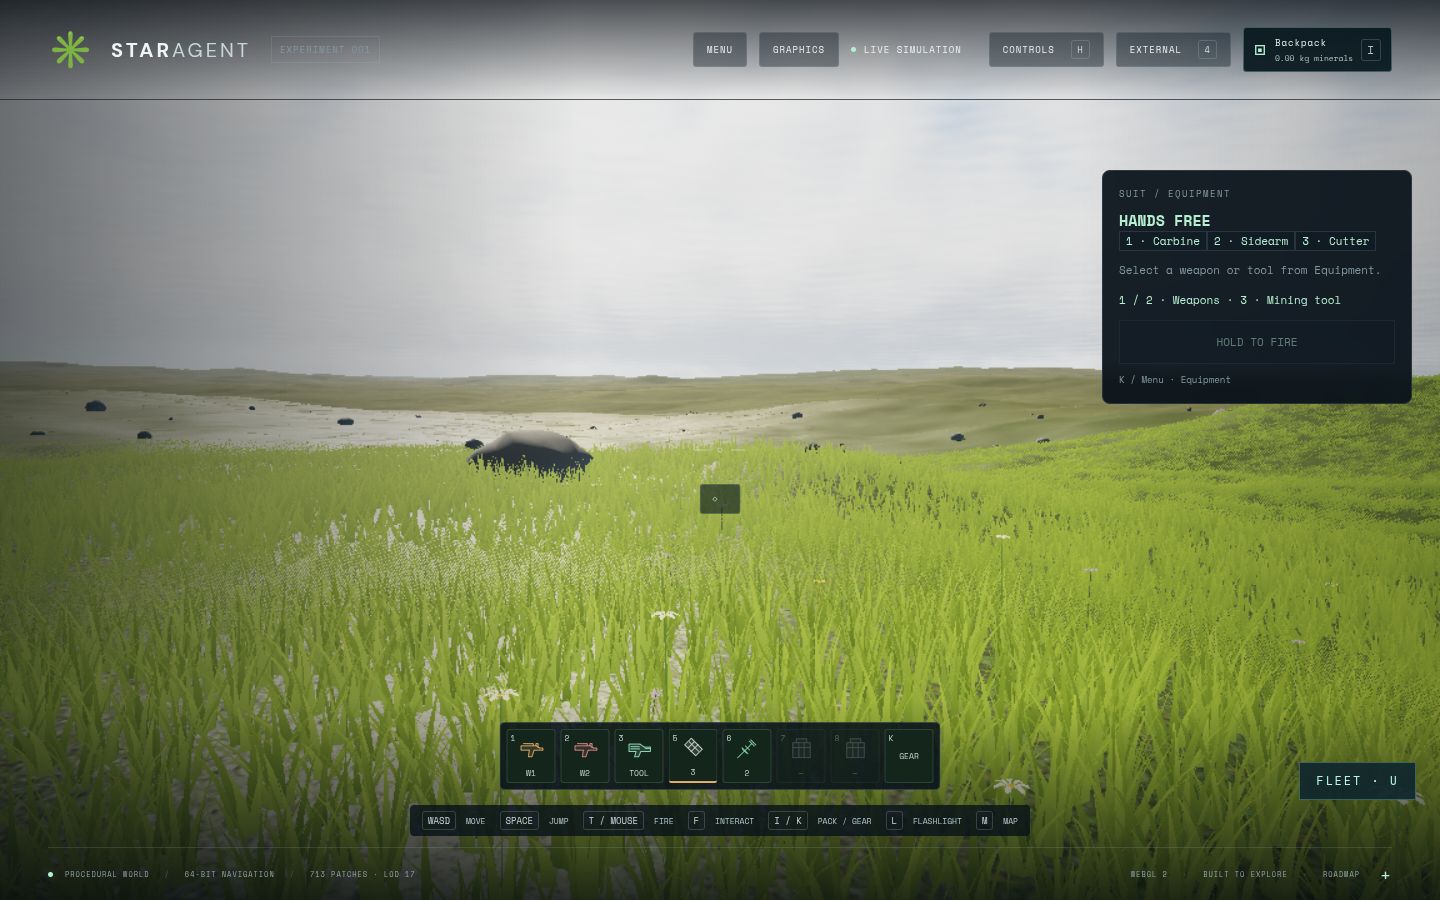
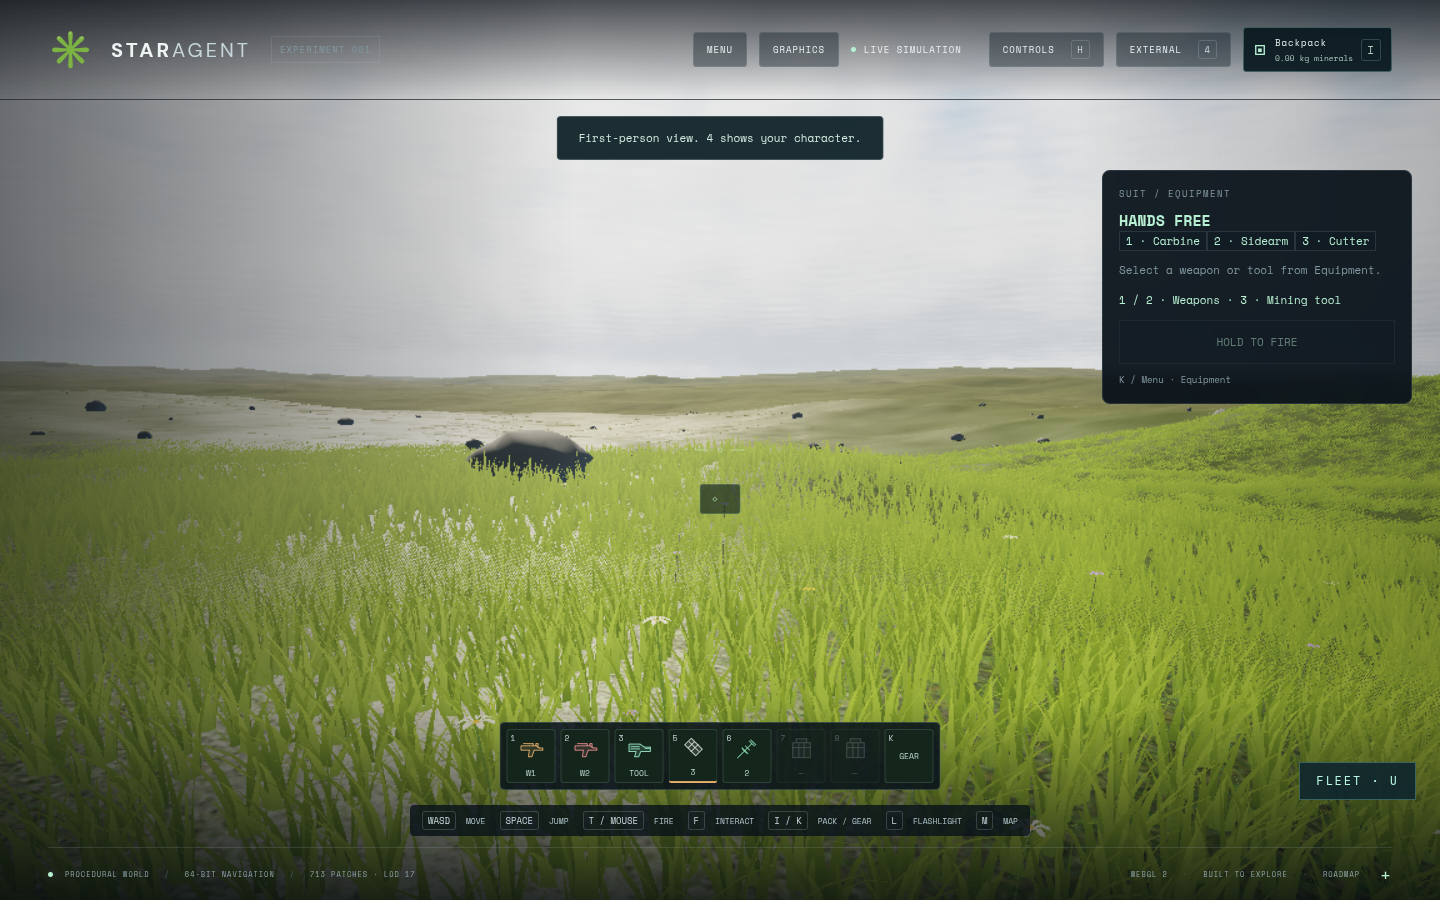
Retain coarse grass until intermediate blades finish streaming

diff --git a/src/distant-meadow.js b/src/distant-meadow.js
@@ -48,21 +48,31 @@ function mediumGeometry(){
 export class DistantMeadow {
   constructor(scene,vegetation,{medium=false}={}){
     this.medium=medium;this.spacing=medium?.28:SPACING;this.margin=medium?10:MARGIN;this.capacity=medium?65000:CAPACITY;
-    this.vegetation=vegetation;this.origin=new THREE.Vector3();this.last=new THREE.Vector3(Infinity,Infinity,Infinity);
+    this.vegetation=vegetation;this.origin=new THREE.Vector3();this.previousOrigin=new THREE.Vector3();this.hadPopulation=false;this.blendStart=-1;this.last=new THREE.Vector3(Infinity,Infinity,Infinity);
     this.distance=medium?28:80;this.density=.75;this.cache=new Map();this.pending=null;this.clearing=null;
-    this.uniforms={fieldEye:{value:new THREE.Vector3()},fieldTime:{value:0},fieldRange:{value:this.distance}};
+    this.uniforms={fieldEye:{value:new THREE.Vector3()},fieldTime:{value:0},fieldRange:{value:this.distance},fieldUp:{value:new THREE.Vector3()},fieldResidentCenter:{value:new THREE.Vector3()},fieldResidentRadius:{value:medium?38:0},fieldPreviousCenter:{value:new THREE.Vector3()},fieldPreviousRadius:{value:0},fieldResidentBlend:{value:1}};
     this.texture=medium?null:grassTexture();this.geometry=medium?mediumGeometry():clusterGeometry();
     this.geometry.setAttribute('fieldPhase',new THREE.InstancedBufferAttribute(new Float32Array(this.capacity),1));
     this.material=new THREE.MeshStandardMaterial({map:this.texture,alphaTest:0,side:THREE.DoubleSide,roughness:1});
     this.material.onBeforeCompile=shader=>{
       Object.assign(shader.uniforms,this.uniforms);
-      shader.vertexShader=shader.vertexShader.replace('#include <common>','#include <common>\nuniform vec3 fieldEye; uniform float fieldTime; attribute float fieldPhase; varying float fieldDistance; varying float fieldHeight; varying float fieldSeed;')
+      shader.vertexShader=shader.vertexShader.replace('#include <common>','#include <common>\nuniform vec3 fieldEye; uniform float fieldTime; uniform vec3 fieldUp,fieldResidentCenter,fieldPreviousCenter; attribute float fieldPhase; varying float fieldDistance; varying float fieldHeight; varying float fieldSeed; varying float fieldResidentDistance; varying float fieldOwnDistance; varying float fieldPreviousDistance;')
         .replace('#include <begin_vertex>',`#include <begin_vertex>
           vec3 root=instanceMatrix[3].xyz; fieldDistance=length(root-fieldEye); fieldHeight=uv.y; fieldSeed=fieldPhase;
+          vec3 residentDelta=root-fieldResidentCenter;
+          fieldResidentDistance=length(residentDelta-fieldUp*dot(residentDelta,fieldUp));
+          fieldOwnDistance=length(root-fieldUp*dot(root,fieldUp));
+          vec3 previousDelta=root-fieldPreviousCenter;fieldPreviousDistance=length(previousDelta-fieldUp*dot(previousDelta,fieldUp));
           transformed.x+=sin(fieldTime*1.8+fieldPhase)*.09*position.y*position.y;`);
-      shader.fragmentShader=shader.fragmentShader.replace('#include <common>','#include <common>\nuniform float fieldRange; varying float fieldDistance; varying float fieldHeight; varying float fieldSeed;')
+      shader.fragmentShader=shader.fragmentShader.replace('#include <common>','#include <common>\nuniform float fieldRange,fieldResidentRadius,fieldPreviousRadius,fieldResidentBlend; varying float fieldDistance; varying float fieldHeight; varying float fieldSeed; varying float fieldResidentDistance; varying float fieldOwnDistance; varying float fieldPreviousDistance;')
         .replace('#include <alphatest_fragment>',`#include <alphatest_fragment>
-          float cover=smoothstep(${medium?'6.0,10.0':'20.0,28.0'},fieldDistance)*(1.0-smoothstep(${medium?'20.0':'fieldRange*.78'},fieldRange,fieldDistance));
+          float resident=fieldResidentRadius>0.0?1.0-smoothstep(fieldResidentRadius-8.0,fieldResidentRadius,fieldResidentDistance):0.0;
+          float previousResident=fieldPreviousRadius>0.0?1.0-smoothstep(fieldPreviousRadius-8.0,fieldPreviousRadius,fieldPreviousDistance):0.0;
+          resident*=mix(previousResident,1.0,fieldResidentBlend);
+          float outer=smoothstep(20.0,28.0,fieldDistance);
+          // The coarse parent fills unresident parts of the middle layer. Blend
+          // across the retained field edge before new blades finish streaming.
+          float cover=${medium?'smoothstep(6.0,10.0,fieldDistance)*(1.0-outer)*resident':'smoothstep(6.0,10.0,fieldDistance)*(1.0-(1.0-outer)*resident)*(1.0-smoothstep(fieldRange*.78,fieldRange,fieldDistance))*(1.0-smoothstep(fieldRange,fieldRange+20.0,fieldOwnDistance))'};
           float noise=fract(52.9829189*fract(dot(gl_FragCoord.xy,vec2(.06711056,.00583715))${medium?'':'+fieldSeed*.137'}));
           // Preserve the filtered mask's average coverage when blades become
           // subpixel. A hard alpha cutoff erased the sward in distant mipmaps.
@@ -70,7 +80,7 @@ export class DistantMeadow {
         .replace('#include <normal_fragment_begin>','#include <normal_fragment_begin>\nnormal*=faceDirection;')
         .replace('#include <color_fragment>',medium?'#include <color_fragment>\ndiffuseColor.rgb*=mix(vec3(.42,.52,.27),vec3(.80,.88,.45),fieldHeight);':'#include <color_fragment>');
     };
-    this.material.customProgramCacheKey=()=> medium?'medium-meadow-v1':'distant-meadow-v3';
+    this.material.customProgramCacheKey=()=> medium?'medium-meadow-v2':'distant-meadow-v4';
     this.mesh=new THREE.InstancedMesh(this.geometry,this.material,this.capacity);this.mesh.count=0;this.mesh.frustumCulled=false;this.mesh.receiveShadow=true;this.mesh.castShadow=false;this.mesh.name=medium?'Intermediate grass blades':'Distant instanced meadow';scene.add(this.mesh);
     this.stats={range:this.distance,density:.75,clusters:0,pending:0,rebuilds:0,visible:false};
     if(!medium)this.middle=new DistantMeadow(scene,vegetation,{medium:true});
@@ -117,9 +127,19 @@ export class DistantMeadow {
       if(done){this.publish(job);this.pending=null;}
     }
     this.uniforms.fieldEye.value.copy(position).sub(this.origin);this.uniforms.fieldTime.value=time;
+    this.uniforms.fieldUp.value.copy(this.origin).normalize();
+    const residentLayer=this.middle??this;
+    this.uniforms.fieldPreviousCenter.value.copy(residentLayer.previousOrigin).sub(this.origin);
+    this.uniforms.fieldPreviousRadius.value=residentLayer.hadPopulation?residentLayer.distance+residentLayer.margin:0;
+    this.uniforms.fieldResidentBlend.value=THREE.MathUtils.smoothstep(time-residentLayer.blendStart,0,.6);
+    if(this.middle){
+      this.uniforms.fieldResidentCenter.value.copy(this.middle.origin).sub(this.origin);
+      this.uniforms.fieldResidentRadius.value=this.middle.mesh.visible&&this.middle.mesh.count>0?this.middle.distance+this.middle.margin:0;
+    }
     this.mesh.position.copy(this.origin).sub(origin);this.stats.pending=Number(Boolean(this.pending)||Boolean(this.middle?.pending));
   }
   publish(job){
+    this.previousOrigin.copy(this.origin);this.hadPopulation=this.mesh.count>0;this.blendStart=this.uniforms.fieldTime.value;
     this.origin.copy(job.origin);this.cache=job.cache;
     const count=job.count;
     this.mesh.instanceMatrix.array=job.matrices;this.mesh.instanceMatrix.clearUpdateRanges();this.mesh.instanceMatrix.addUpdateRange(0,count*16);this.mesh.instanceMatrix.needsUpdate=true;

diff --git a/docs/qa/flight-options/fourth-review.md b/docs/qa/flight-options/fourth-review.md
@@ -1,0 +1,47 @@
+# Independent flight-options review — fourth visual pass
+
+**Decision: CHANGES REQUIRED. Scoped score: 3.83 / 5.00.** The earlier grass material/coverage finding is resolved in this candidate. A reproducible middle-field streaming gap remains during forward walking.
+
+Candidate **2da9636**, `feat/flight-options`, production preview 5290. Separate Codex reviewer under HANDOFF TOKEN POLICY v2; read-only source review and independent browser captures. Previous three reports remain preserved.
+
+## Required correction
+
+**P2 — walking can outrun the retained middle grass before replacement publication, exposing a bare band.** `src/distant-meadow.js:50` defines only 10 m extra generation margin for the middle field; `update` triggers a replacement after 8 m displacement, generates the whole field within its 0.8 ms budget, and retains the old mesh until completion. The combined trigger distance and publication latency exceed that margin in the actual full-resolution walk.
+
+At the start of the 160 m sequence, both jobs and terrain are settled. In `meadow-160-walking-3.png`, the player has moved **19.88 m** from that position while middle rebuild count remains **3**, unchanged from the start. A clear bare transverse strip separates foreground/middle blades from the far field. It remains conspicuous in `meadow-160-walking-4.png`; the first replacement has then published, but is already behind the moving player. By `meadow-160-stopped.png`, middle rebuild count is 6, pending is 0, terrain is settled, and the strip is filled.
+
+This is a field publication problem rather than the previous olive-card material mismatch. Source and telemetry support the cause: the original generated middle radius is 28+10 m, the visible radius is 28 m, and the player moves farther than the spare margin before the complete replacement arrives. The far field begins fading in at 20 m, so missing middle coverage becomes visible ahead of the player.
+
+Required behavior: retain complete middle coverage throughout ordinary forward walking while preserving the bounded CPU generation work. Account for trigger distance plus worst observed publication delay when sizing or scheduling the retained coverage; consider incremental spatial publication or earlier/predictive preparation. Verify a continuous full-resolution walk long enough to cross multiple middle publications, with no exposed band or later fill-in. Simply enlarging the generated region may also enlarge publication latency, so validate the resulting behavior.
+
+## Resolved findings and rubric
+
+The filtered-alpha treatment, RGB padding, individual blade gradients and independently seeded cluster coverage now produce continuous apparent grass color and useful far coverage at 80 m and 160 m. The former broad sparse olive outer field no longer dominates the transition. Fine screen-door grain remains visible; it is a bounded quality limitation, not a second material blocker in this pass.
+
+| QUALITY criterion | Score | Assessment |
+|---|---:|---|
+| Silhouette and scale | 4 | Previously reviewed gear/tool/UI observations remain accepted; layered grass silhouettes now transition acceptably. |
+| Materials and detail | 4 | Previous near/far color and sparse-card discrepancy is resolved in the new full-resolution captures. |
+| Lighting and integration | 4 | Continuous grass color response; prior bounded lamp observations remain accepted. |
+| Cohesion | 4 | Existing UI, MFD and equipment visual language remains consistent. |
+| Information design / function | 4 | Previously corrected B/Y hints and graphics controls remain accepted. |
+| Motion | 3 | Middle-field publication falls behind ordinary walking and exposes a temporary bare strip. |
+
+Average **23/6 = 3.83**. No criterion below 3; average remains below 4.0. This is not whole-PR34 approval, a waiver of inherited scene budgets, or permission to merge/deploy.
+
+## Evidence and validation
+
+Directory: `/tmp/star-agent-flight-options-fourth-independent/`.
+
+- For each 80 m and 160 m range: `meadow-RANGE-stationary.png`, five `meadow-RANGE-walking-N.png` frames, and `meadow-RANGE-stopped.png`.
+- `metadata.json` records renderer, browser, actual position/speed, render scale, terrain settlement and middle/far pending/publication statistics.
+- `page@e31ad2b72e5abd95a4321758f4fcec31.webm` retains the capture run for follow-up inspection.
+- Script: `/tmp/star-flight-fourth-capture.mjs`.
+
+Chromium **151.0.7922.173**, **ANGLE (AMD, AMD Radeon 860M Graphics (radeonsi krackan1 ACO), OpenGL ES 3.2)**; **1600×900**, DPR 1, render scale pinned to **1** throughout. Seed 7291, canonical meadow latitude 15.74 / longitude 22.44, eye height 1.75 m. Debug placement establishes the fixture, then actual W walking advances at approximately 4.5 m/s. The tool is holstered, so these grass views are unobscured. Initial/final views wait for settled terrain and completed grass work. Normal terrain streaming during movement is recorded.
+
+**Zero browser errors/warnings**. Independent `node --test tests/meadow.test.js`: **6/6 passed**; working tree was clean at 2da9636. These tests cover existing meadow invariants and do not establish the newly failed streaming behavior. Source inspection found no color-space, double-tint, alpha-order or unstable phase mistake in the coverage correction itself.
+
+No FPS or portable performance claim is made from this video-recorded run. Unchanged phone/desktop graphics UI, gear, lamps, equipment, free-drive and MFD observations remain attributed to the earlier independent passes; this pass did not repeat all those journeys. Builder separately reports production build and affected feature browser 1/1 passing.
+
+GPU lane released after captures. No source edits, merge or deployment performed.

diff --git a/docs/qa/flight-options/record.md b/docs/qa/flight-options/record.md
@@ -138,3 +138,19 @@ not recorded as a test pass. The final combined source passed its production bui
 fixture again (**1/1**, zero page/console errors); independent visual review is
 next. Log: `/tmp/star-agent-flight-options-stochastic-browser.log`. No extra scene meshes or triangles
 were added by the mask correction.
+
+
+The fourth review of2da9636 closed the material/coverage finding, but scored
+**3.83/5** with motion3: the player could outrun the intermediate field's10m
+preload margin, leaving a bare strip until publication. The exact displacement,
+publication counts and walking frames are retained in [fourth-review.md](fourth-review.md).
+The correction keeps distant grass wherever the intermediate field is not yet
+resident, fades the actual retained field edge, and blends newly resident finer
+blades in over0.6s. Both representations use the same resident coverage; rebuilding
+stays budgeted. Distant grass also fades its retained outer edge if movement
+outpaces it. This is graceful fallback, not a promise of full preset distance at
+arbitrary movement speed or under unlimited load.
+
+The resident-fallback candidate passed its production build and affected feature
+browser check again (**1/1**, zero console/page errors). Source and runtime
+walking review follow; prior rejected scores remain historical.
